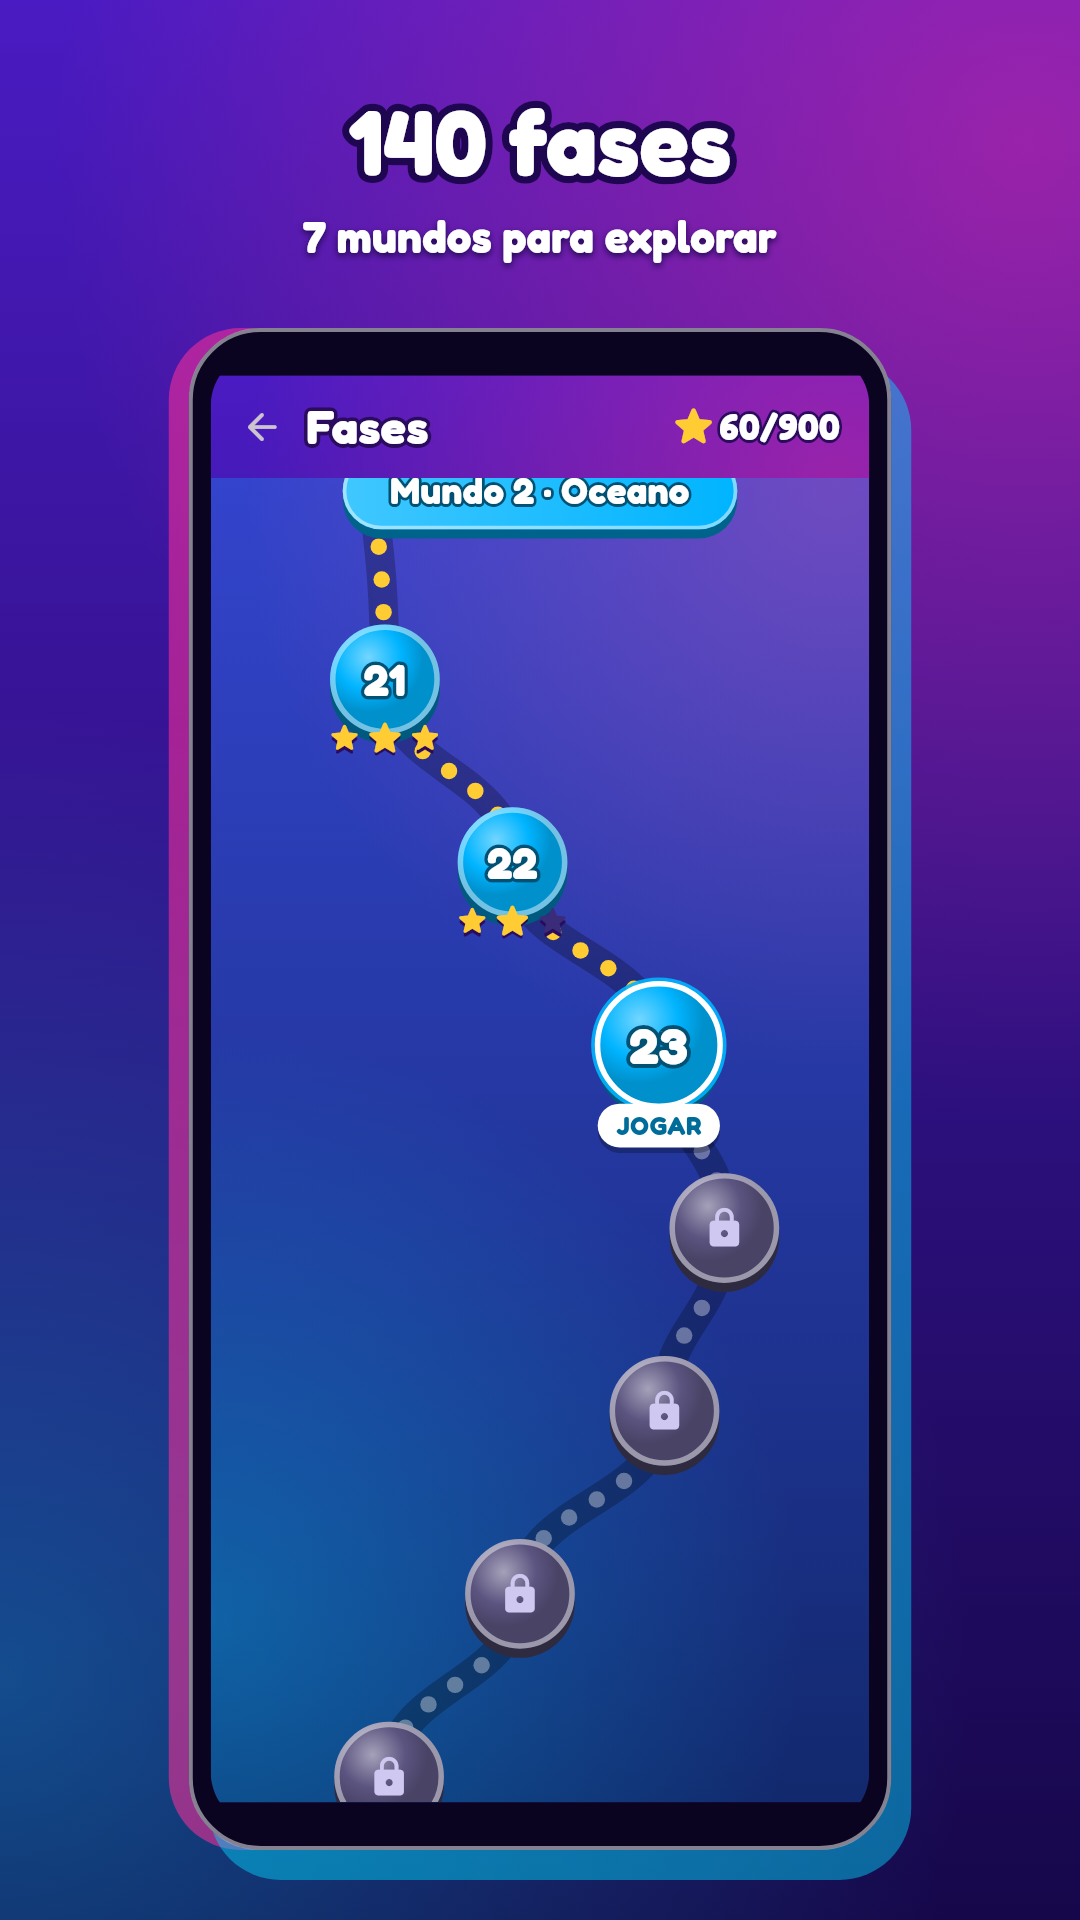
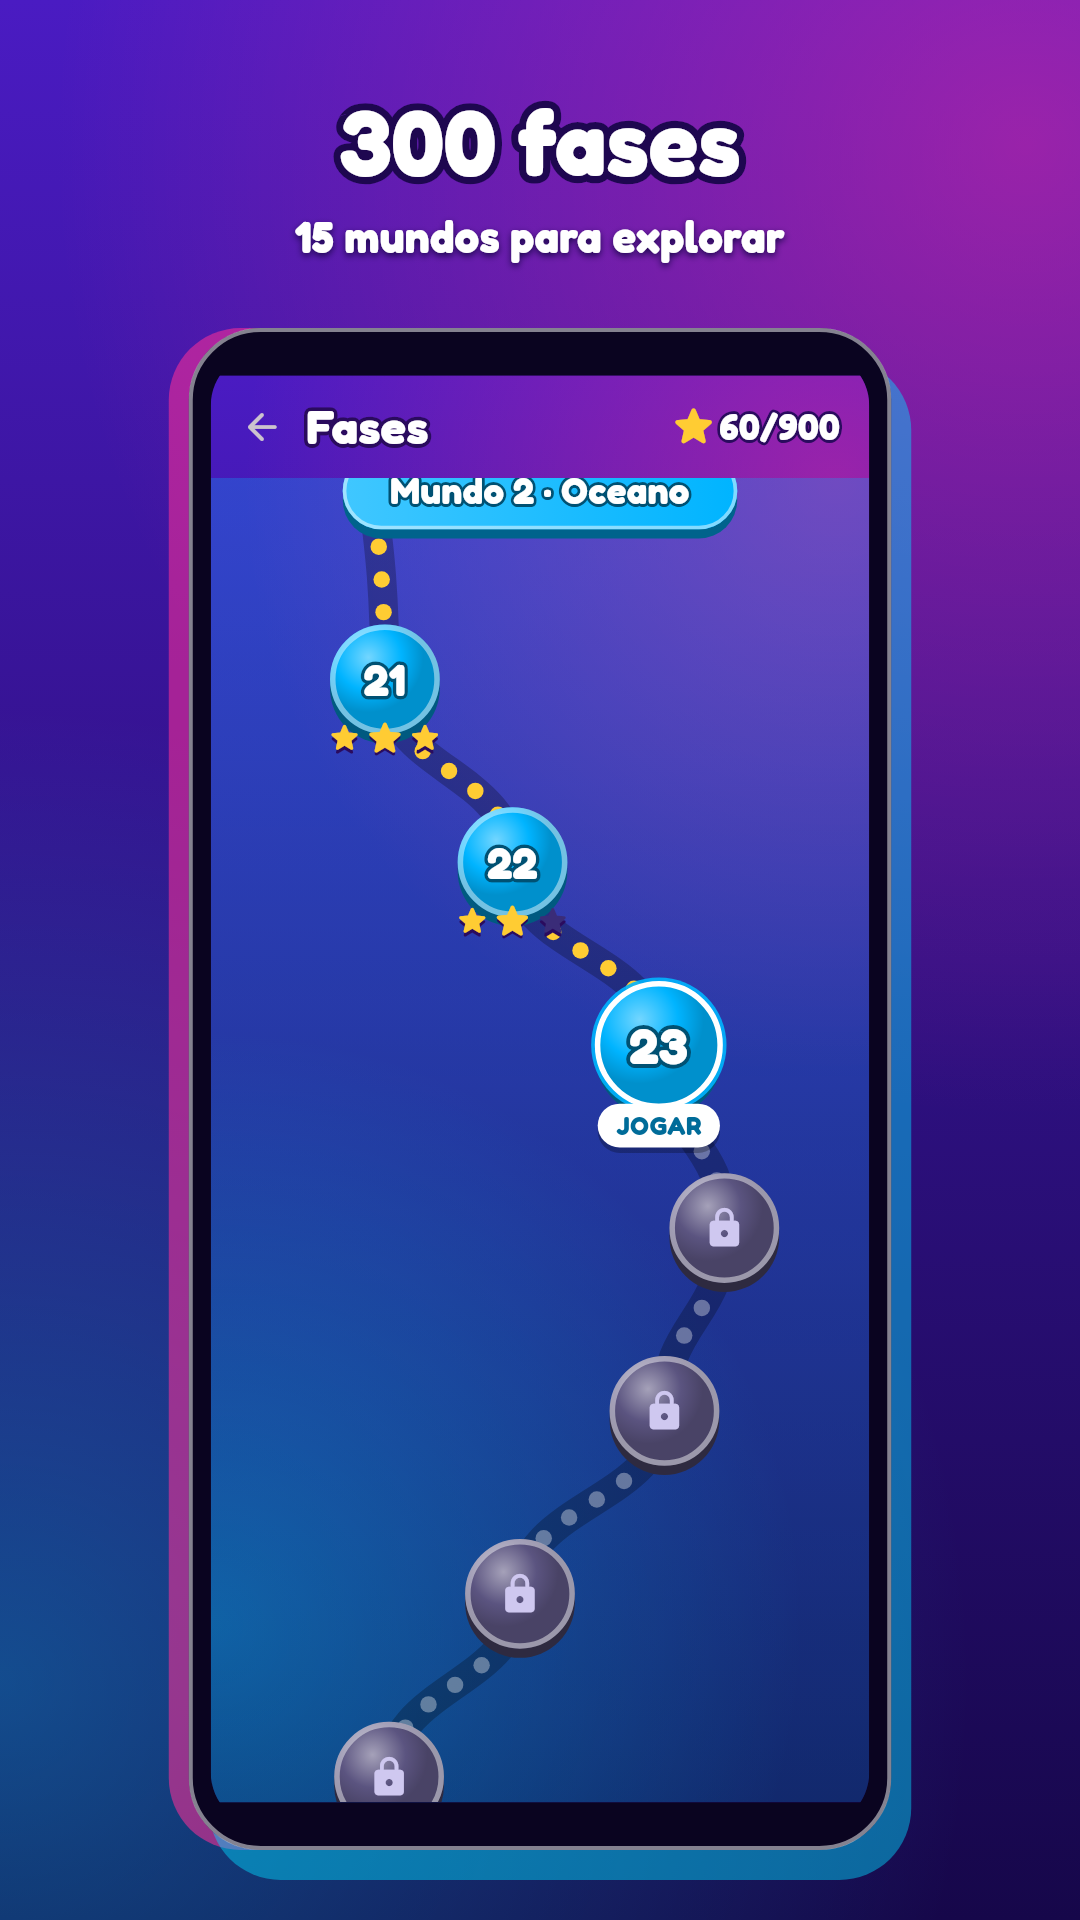
Prints da Play Store atualizados: 300 fases e roleta de prêmios (8 imagens)
Claude-Session: https://claude.ai/code/session_0113qfSKSdakLn1Fz3YtvNms

Changed region(s): [[0.275, 0.0312, 0.7333, 0.1562]]

diff --git a/app/test/play_store_test.dart b/app/test/play_store_test.dart
@@ -5,6 +5,7 @@ import 'package:encaixa/telas/inicio_tela.dart';
 import 'package:encaixa/telas/jogo_tela.dart';
 import 'package:encaixa/telas/loja_tela.dart';
 import 'package:encaixa/telas/mapa_tela.dart';
+import 'package:encaixa/telas/roda_tela.dart';
 import 'package:encaixa/servicos/servicos.dart';
 import 'package:encaixa/tema.dart';
 import 'package:encaixa/widgets/doce.dart';
@@ -101,7 +102,7 @@ void main() {
   });
 
   testWidgets('3 mapa', (tester) async {
-    await vitrine(tester, '3-fases', '140 fases', '7 mundos para explorar', MapaTela(servicos: await servicos()));
+    await vitrine(tester, '3-fases', '300 fases', '15 mundos para explorar', MapaTela(servicos: await servicos()));
   });
 
   testWidgets('4 pedras', (tester) async {
@@ -131,6 +132,16 @@ void main() {
       'Novidades todo dia',
       'Missões, presentes e desafio diário',
       InicioTela(servicos: await servicos()),
+    );
+  });
+
+  testWidgets('8 roleta', (tester) async {
+    await vitrine(
+      tester,
+      '8-roleta',
+      'Prêmios toda hora',
+      'Roda da sorte diária e roleta após cada partida',
+      RodaTela(servicos: await servicos()),
     );
   });
 

diff --git a/docs/PUBLICAR.md b/docs/PUBLICAR.md
@@ -4,7 +4,7 @@
 1. Play Console (taxa única de US$ 25) → **Criar app** → nome "Encaixa", jogo, gratuito.
 2. Pacote: `com.agsterr.encaixa` (definido em `app/android/app/build.gradle.kts`).
 3. Ficha da loja: ícone `docs/artes/icone-512.png`, destaque `docs/artes/destaque-1024x500.png` e as
-   **7 imagens de telefone** em `docs/play-store/` (1080×1920, na ordem 1 a 7). Para refazê-las:
+   **8 imagens de telefone** em `docs/play-store/` (1080×1920, na ordem 1 a 8). Para refazê-las:
    `cd app && flutter test test/play_store_test.dart --dart-define=CAPTURAS=true`.
 4. Política de privacidade (obrigatória com anúncios): publicar uma página e colocar o link (issue aberta).
 5. Classificação de conteúdo, público-alvo (**não** marque crianças: anúncios personalizados) e "Segurança dos dados"
